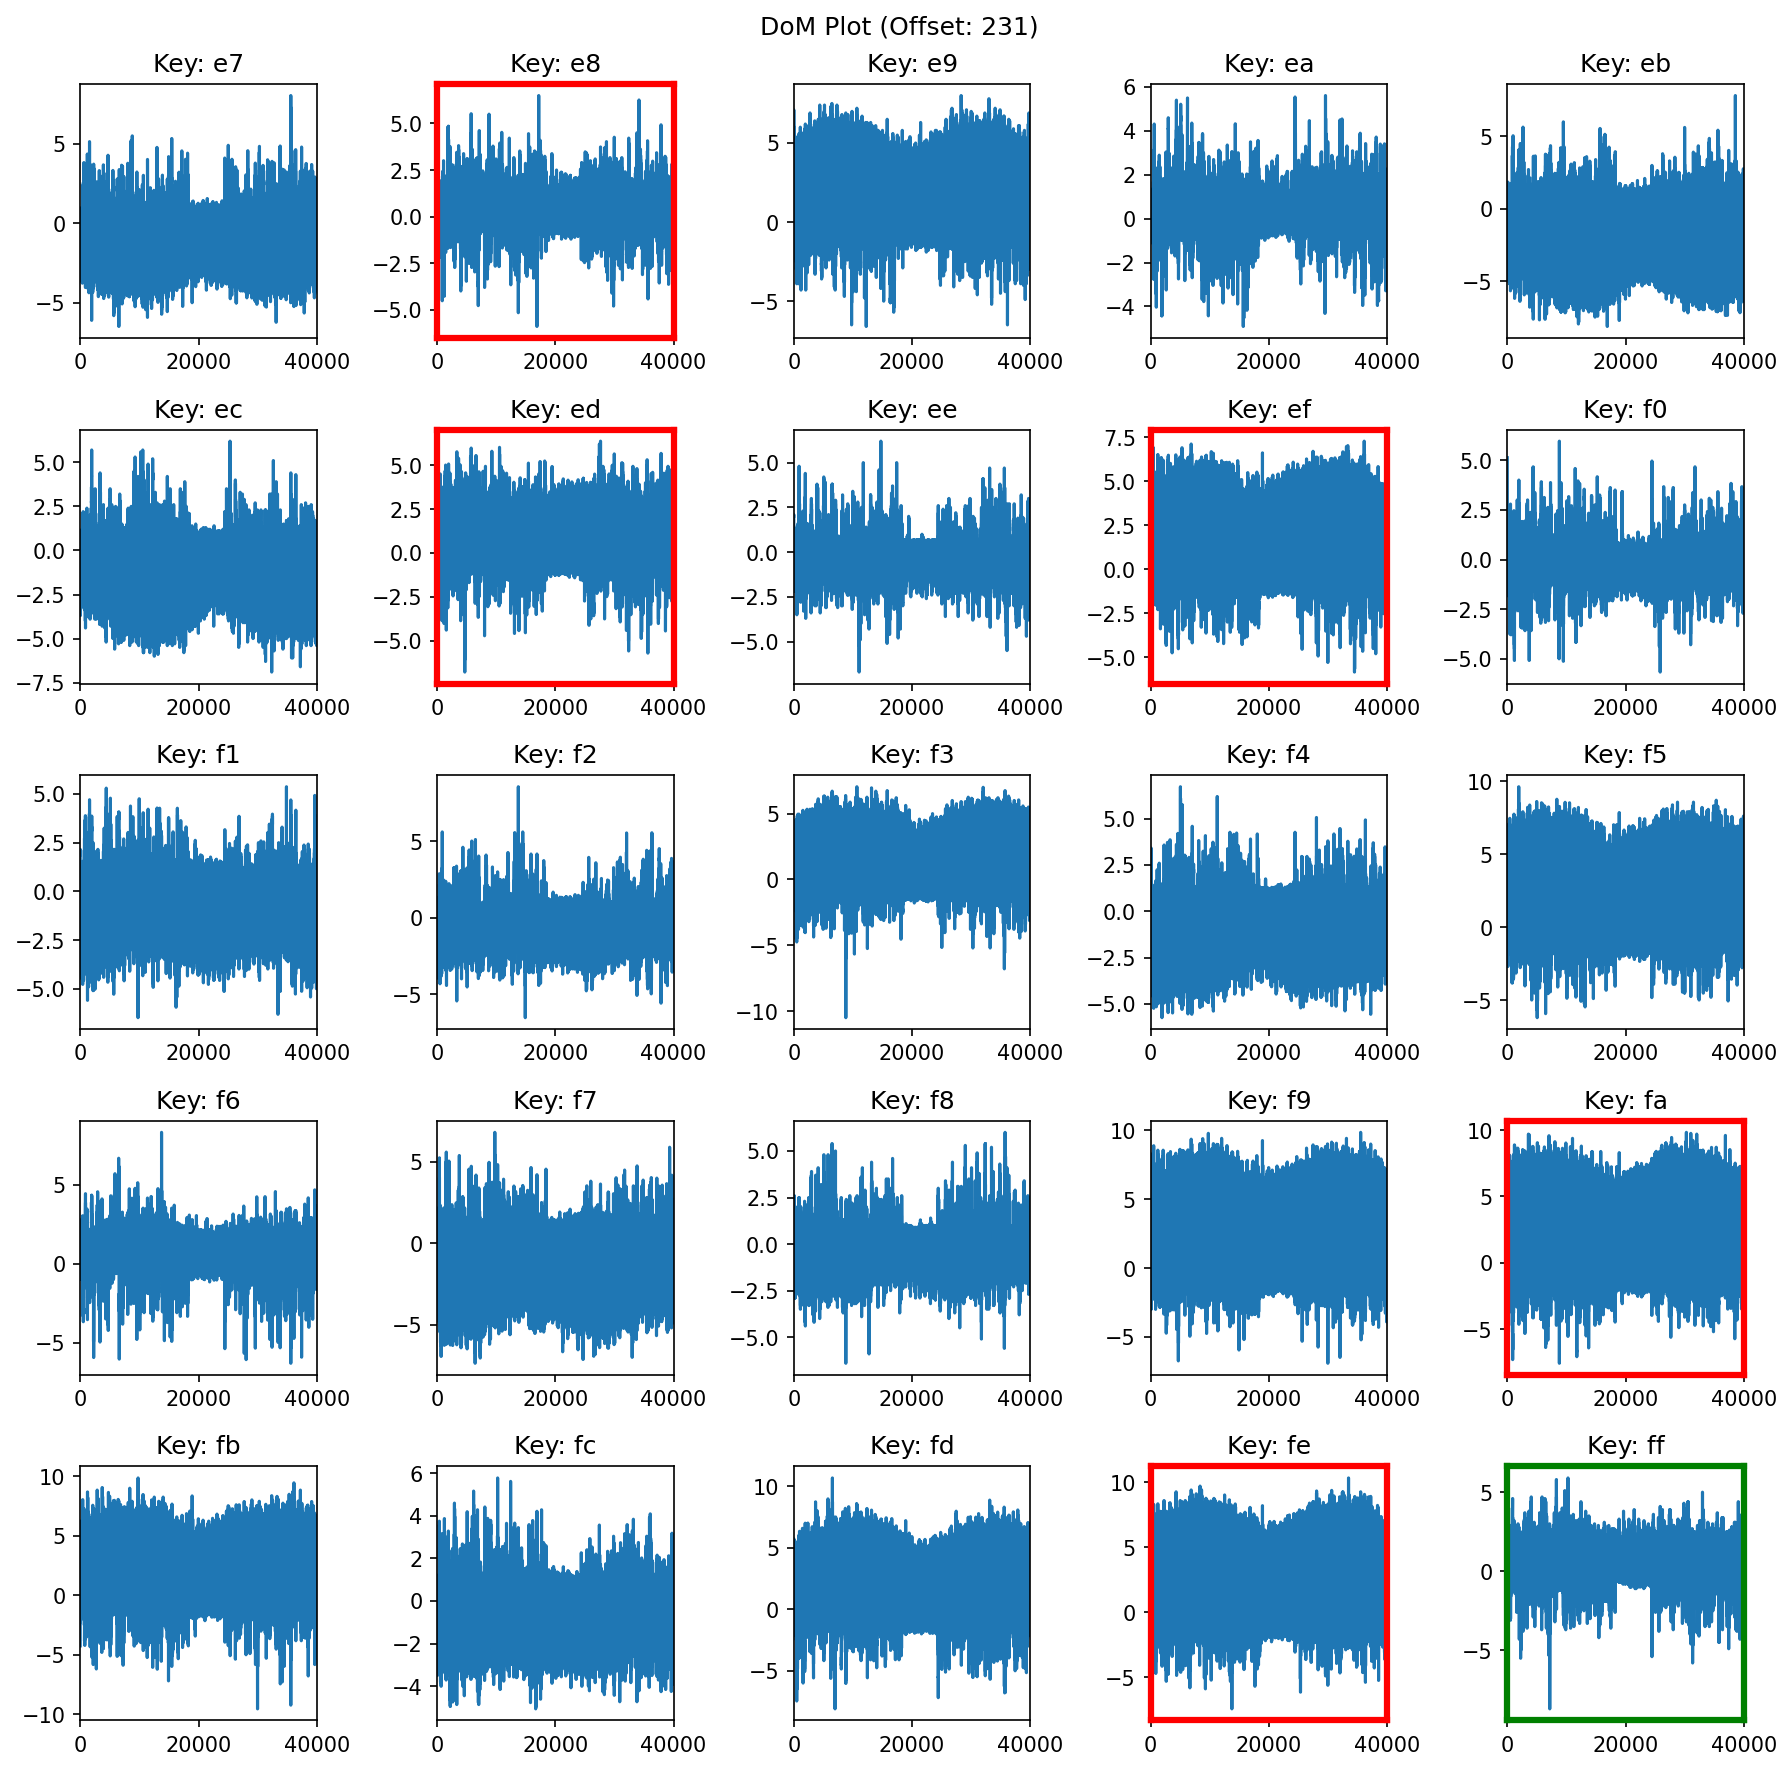
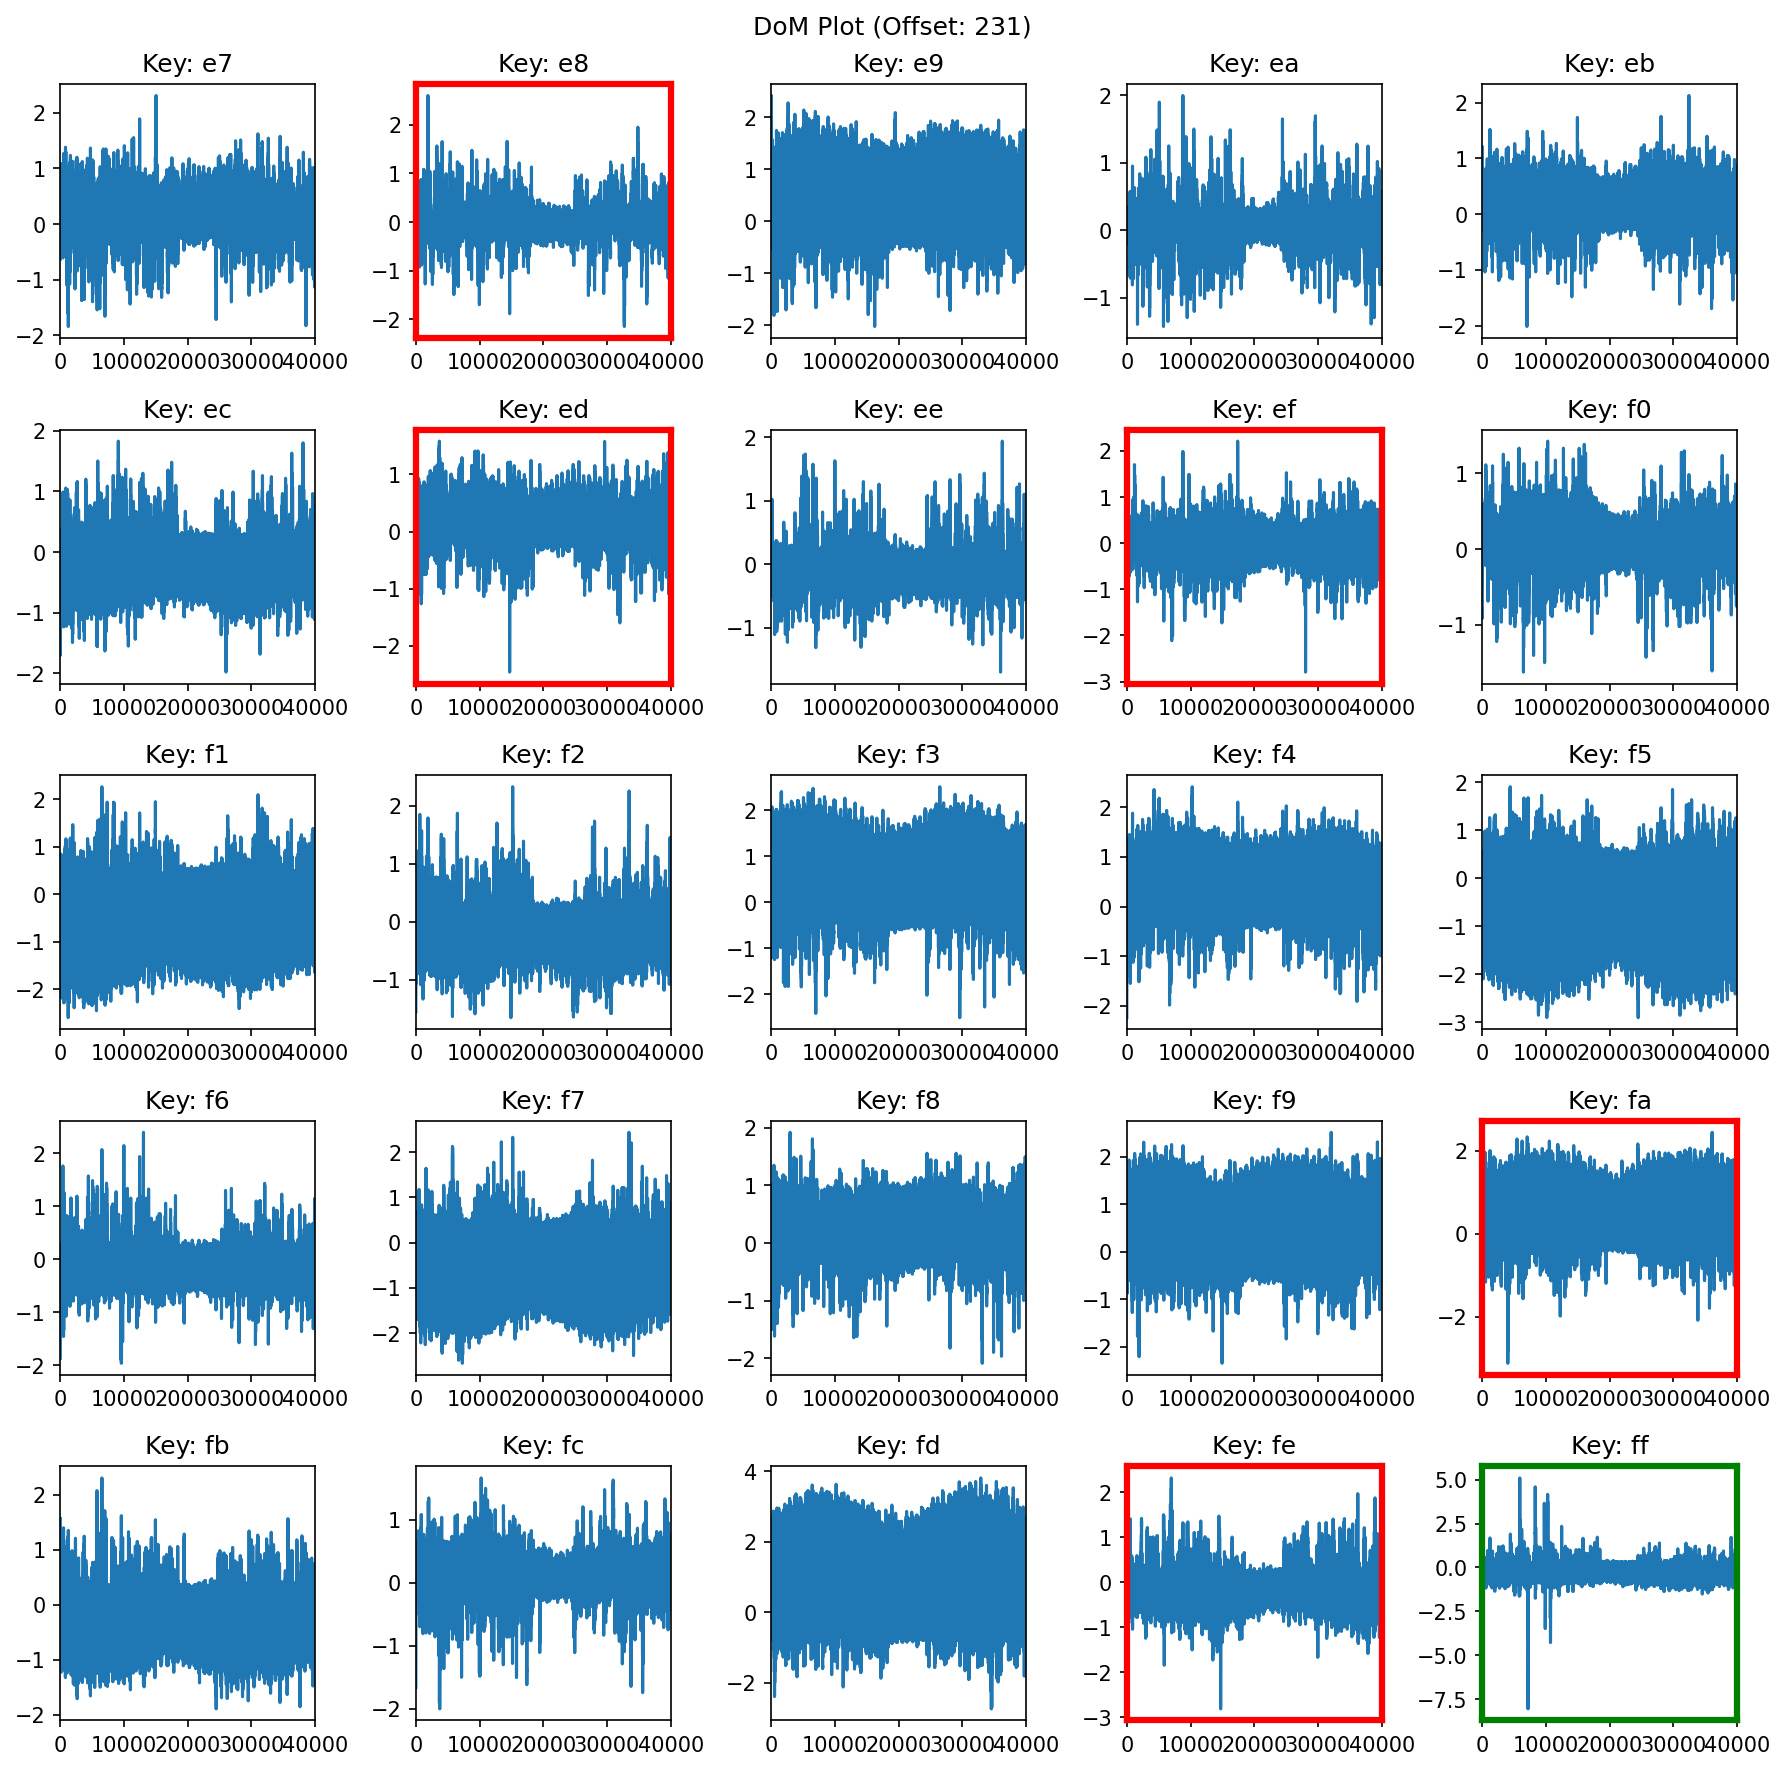
updated images

diff --git a/DPA_template.py b/DPA_template.py
@@ -27,12 +27,17 @@ print(f"Traces shape: {traces.shape}")
 print(f"S-box shape: {sbox.shape}")
 
 bytes_recovered = np.zeros(16, dtype=np.uint8)
-n_traces = 20
+n_traces = 200
 
 traces = traces[:n_traces, :]
 
 ## Launch DPA and compute DoM, size of DoM 256 x 40000
 # Part 1
+key1DoM=None
+key1DoMAbs = None
+key16DoM = None
+key16DoMAbs = None
+
 
 for j in range(16): 
     byte_to_attack = j  # Python uses 0-based indexing
@@ -80,6 +85,12 @@ for j in range(16):
             maxDoM = max(abs(mean1-mean0))
             maxNum = col
         # TODO: Complete the DoM calculation
+        if j ==0:
+            key1DoM = DoM
+            key1DoMAbs = DoMAbs
+        if j == 15:
+            key16DoM = DoM
+            key16DoMAbs = DoMAbs
         pass
 
     # print(hex(maxNum))
@@ -155,23 +166,23 @@ fig.suptitle(f'DoM Plots for key byte 1 and 16 without absolute value(above) and
 key_candidate1 = bytes_recovered[0]
 key_candidate16 = bytes_recovered[15]
 
-if key_candidate1 < DoM.shape[0]:
-    axes[0, 0].plot(DoM[key_candidate1, :])
+if key_candidate1 < key1DoM.shape[0]:
+    axes[0, 0].plot(key1DoM[key_candidate1, :])
     axes[0, 0].set_title(f'Key: {key_candidate1:02x}')
-    axes[0, 0].set_xlim(0, DoM.shape[1])
-if key_candidate16 < DoM.shape[0]:
-    axes[0, 1].plot(DoM[key_candidate16, :])
+    axes[0, 0].set_xlim(0, key1DoM.shape[1])
+if key_candidate16 < key16DoM.shape[0]:
+    axes[0, 1].plot(key16DoM[key_candidate16, :])
     axes[0, 1].set_title(f'Key: {key_candidate16:02x}')
-    axes[0, 1].set_xlim(0, DoM.shape[1])
+    axes[0, 1].set_xlim(0, key16DoM.shape[1])
 
-if key_candidate1 < DoMAbs.shape[0]:
-    axes[1, 0].plot(DoMAbs[key_candidate1, :])
+if key_candidate1 < key1DoMAbs.shape[0]:
+    axes[1, 0].plot(key1DoMAbs[key_candidate1, :])
     axes[1, 0].set_title(f'Key: {key_candidate1:02x}')
-    axes[1, 0].set_xlim(0, DoMAbs.shape[1])
-if key_candidate16 < DoMAbs.shape[0]:
-    axes[1, 1].plot(DoMAbs[key_candidate16, :])
+    axes[1, 0].set_xlim(0, key1DoMAbs.shape[1])
+if key_candidate16 < key16DoMAbs.shape[0]:
+    axes[1, 1].plot(key16DoMAbs[key_candidate16, :])
     axes[1, 1].set_title(f'Key: {key_candidate16:02x}')
-    axes[1, 1].set_xlim(0, DoMAbs.shape[1])
+    axes[1, 1].set_xlim(0, key16DoMAbs.shape[1])
 
 
 plt.tight_layout()
